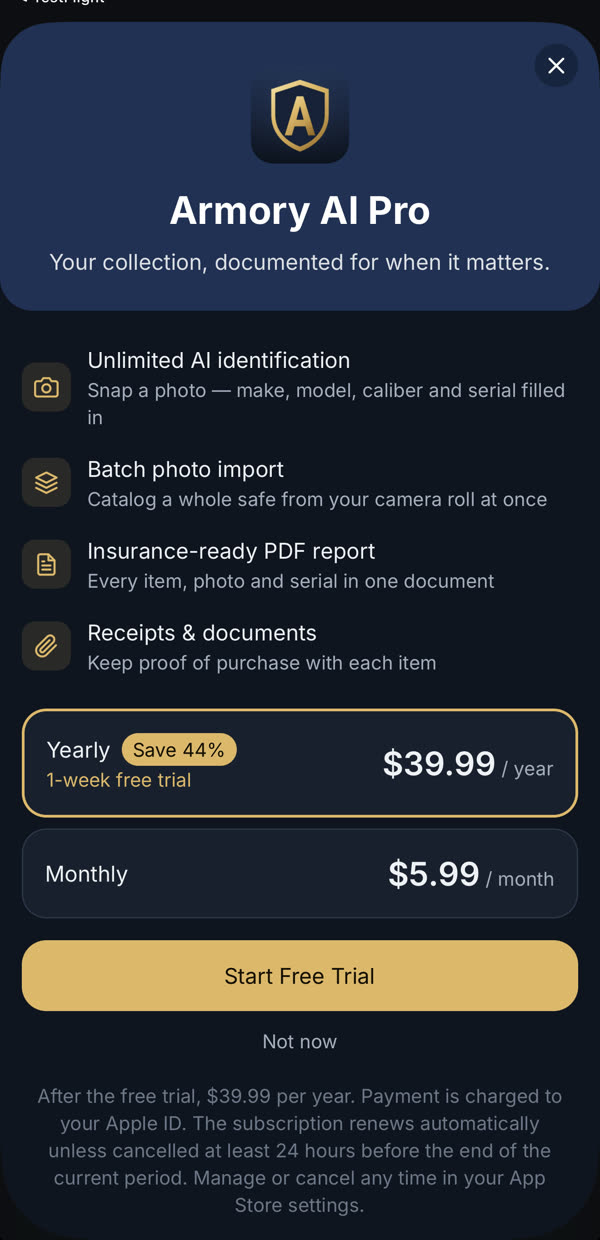
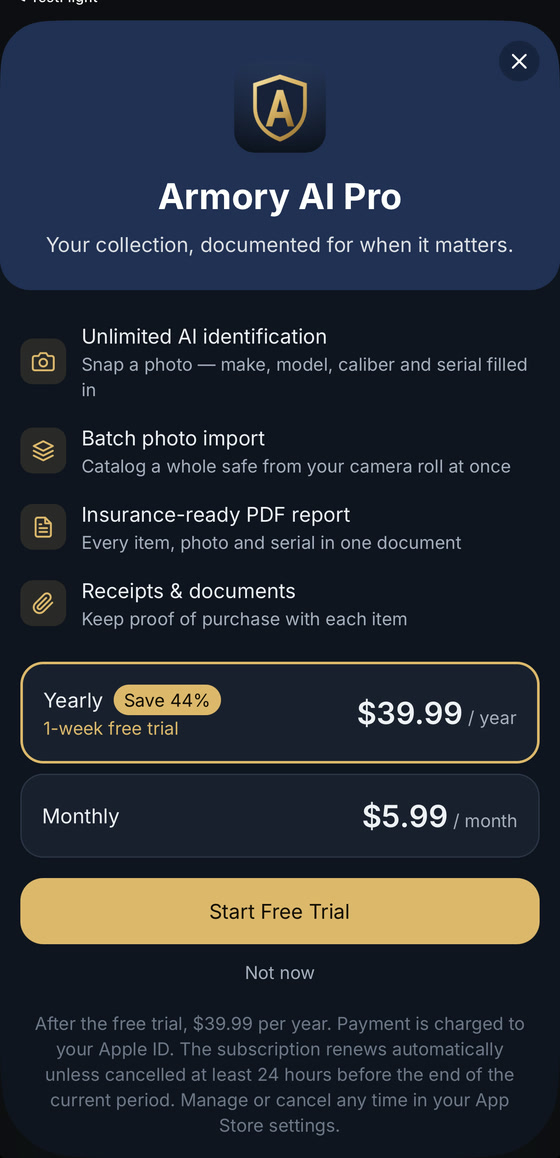
feat(site): Built in the USA, American Code LLC, sharper demo images
Adds a US flag and 'Built in the USA' to the hero, a trust strip (built
by American Code LLC, never sold, not used for AI training, Face ID app
lock) and links american-code.com in the footer, pricing and checkout.
Demo animations and step screens are re-rendered at 2x for Retina.

Claude-Session: https://claude.ai/code/session_01RkHaPM7E1otJpQmPPEVAR2

diff --git a/index.html b/index.html
@@ -34,7 +34,7 @@
     <section class="hero">
       <div class="wrap">
         <div>
-          <p class="eyebrow">For collectors, shooters and hunters</p>
+          <p class="eyebrow"><svg class="flag" viewBox="0 0 38 20" width="24" height="13" aria-hidden="true"><rect width="38" height="20" fill="#fff"/><rect y="0.00" width="38" height="1.54" fill="#B22234"/><rect y="3.08" width="38" height="1.54" fill="#B22234"/><rect y="6.16" width="38" height="1.54" fill="#B22234"/><rect y="9.24" width="38" height="1.54" fill="#B22234"/><rect y="12.32" width="38" height="1.54" fill="#B22234"/><rect y="15.40" width="38" height="1.54" fill="#B22234"/><rect y="18.48" width="38" height="1.54" fill="#B22234"/><rect width="15.2" height="10.77" fill="#3C3B6E"/><circle cx="1.6" cy="1.6" r="0.55" fill="#fff"/><circle cx="4.5" cy="1.6" r="0.55" fill="#fff"/><circle cx="7.4" cy="1.6" r="0.55" fill="#fff"/><circle cx="10.3" cy="1.6" r="0.55" fill="#fff"/><circle cx="13.2" cy="1.6" r="0.55" fill="#fff"/><circle cx="1.6" cy="4.2" r="0.55" fill="#fff"/><circle cx="4.5" cy="4.2" r="0.55" fill="#fff"/><circle cx="7.4" cy="4.2" r="0.55" fill="#fff"/><circle cx="10.3" cy="4.2" r="0.55" fill="#fff"/><circle cx="13.2" cy="4.2" r="0.55" fill="#fff"/><circle cx="1.6" cy="6.8" r="0.55" fill="#fff"/><circle cx="4.5" cy="6.8" r="0.55" fill="#fff"/><circle cx="7.4" cy="6.8" r="0.55" fill="#fff"/><circle cx="10.3" cy="6.8" r="0.55" fill="#fff"/><circle cx="13.2" cy="6.8" r="0.55" fill="#fff"/><circle cx="1.6" cy="9.4" r="0.55" fill="#fff"/><circle cx="4.5" cy="9.4" r="0.55" fill="#fff"/><circle cx="7.4" cy="9.4" r="0.55" fill="#fff"/><circle cx="10.3" cy="9.4" r="0.55" fill="#fff"/><circle cx="13.2" cy="9.4" r="0.55" fill="#fff"/></svg> Built in the USA for collectors, shooters and hunters</p>
           <h1>Your collection, documented.</h1>
           <p class="lede">Snap a photo and Armory AI fills in the make, model and caliber. Firearms, ammo and gear, organized in minutes instead of a weekend.</p>
           <div class="cta">
@@ -43,10 +43,20 @@
           </div>
           <p class="hero-note">iPhone app coming soon to the App Store. Subscribe here and Pro is waiting when you sign in.</p>
         </div>
-        <div class="phone"><img src="/assets/demo-identify.webp" width="400" height="830" alt="Armory AI scanning a photo of a pistol and identifying it as a Glock 45 Gen 5 MOS, 9mm"></div>
+        <div class="phone"><img src="/assets/demo-identify.webp" width="680" height="1410" alt="Armory AI scanning a photo of a pistol and identifying it as a Glock 45 Gen 5 MOS, 9mm"></div>
       </div>
     </section>
 
+
+
+    <section class="trust" aria-label="Why Armory AI">
+      <div class="wrap">
+        <span><svg class="flag" viewBox="0 0 38 20" width="24" height="13" aria-hidden="true"><rect width="38" height="20" fill="#fff"/><rect y="0.00" width="38" height="1.54" fill="#B22234"/><rect y="3.08" width="38" height="1.54" fill="#B22234"/><rect y="6.16" width="38" height="1.54" fill="#B22234"/><rect y="9.24" width="38" height="1.54" fill="#B22234"/><rect y="12.32" width="38" height="1.54" fill="#B22234"/><rect y="15.40" width="38" height="1.54" fill="#B22234"/><rect y="18.48" width="38" height="1.54" fill="#B22234"/><rect width="15.2" height="10.77" fill="#3C3B6E"/><circle cx="1.6" cy="1.6" r="0.55" fill="#fff"/><circle cx="4.5" cy="1.6" r="0.55" fill="#fff"/><circle cx="7.4" cy="1.6" r="0.55" fill="#fff"/><circle cx="10.3" cy="1.6" r="0.55" fill="#fff"/><circle cx="13.2" cy="1.6" r="0.55" fill="#fff"/><circle cx="1.6" cy="4.2" r="0.55" fill="#fff"/><circle cx="4.5" cy="4.2" r="0.55" fill="#fff"/><circle cx="7.4" cy="4.2" r="0.55" fill="#fff"/><circle cx="10.3" cy="4.2" r="0.55" fill="#fff"/><circle cx="13.2" cy="4.2" r="0.55" fill="#fff"/><circle cx="1.6" cy="6.8" r="0.55" fill="#fff"/><circle cx="4.5" cy="6.8" r="0.55" fill="#fff"/><circle cx="7.4" cy="6.8" r="0.55" fill="#fff"/><circle cx="10.3" cy="6.8" r="0.55" fill="#fff"/><circle cx="13.2" cy="6.8" r="0.55" fill="#fff"/><circle cx="1.6" cy="9.4" r="0.55" fill="#fff"/><circle cx="4.5" cy="9.4" r="0.55" fill="#fff"/><circle cx="7.4" cy="9.4" r="0.55" fill="#fff"/><circle cx="10.3" cy="9.4" r="0.55" fill="#fff"/><circle cx="13.2" cy="9.4" r="0.55" fill="#fff"/></svg> Built in the USA by <a href="https://american-code.com" rel="noopener">American Code LLC</a></span>
+        <span>Your data is never sold</span>
+        <span>Photos never used to train AI</span>
+        <span>Face ID app lock</span>
+      </div>
+    </section>
 
     <section class="section" id="how">
       <div class="wrap">
@@ -54,19 +64,19 @@
         <p class="sub">No more typing serial numbers into a spreadsheet. Point your camera and let Armory AI do the work.</p>
         <ol class="steps">
           <li class="step-card">
-            <img src="/assets/step-scan.webp" alt="The camera scanning a pistol" width="360" height="746" loading="lazy">
+            <img src="/assets/step-scan.webp" alt="The camera scanning a pistol" width="520" height="1078" loading="lazy">
             <span class="step-n">1</span>
             <h3>Snap a photo</h3>
             <p>Use your camera or pick photos you already have.</p>
           </li>
           <li class="step-card">
-            <img src="/assets/step-result.jpg" alt="Glock 45 Gen 5 MOS identified: semi-auto pistol, 9mm, condition excellent" width="600" height="1244" loading="lazy">
+            <img src="/assets/step-result.jpg" alt="Glock 45 Gen 5 MOS identified: semi-auto pistol, 9mm, condition excellent" width="560" height="1162" loading="lazy">
             <span class="step-n">2</span>
             <h3>AI fills it in</h3>
             <p>Make, model, type and caliber in seconds. Review, adjust, save.</p>
           </li>
           <li class="step-card">
-            <img src="/assets/step-pro.jpg" alt="The Armory AI Pro plans" width="600" height="1244" loading="lazy">
+            <img src="/assets/step-pro.jpg" alt="The Armory AI Pro plans" width="560" height="1162" loading="lazy">
             <span class="step-n">3</span>
             <h3>Go Pro for the whole safe</h3>
             <p>Unlimited scans, batch import and an insurance-ready PDF report.</p>
@@ -136,7 +146,7 @@
             <a class="button" href="/pro/">Get Pro</a>
           </article>
         </div>
-        <p class="tier-fine">Already have the app? Pro bought here or in the app is the same subscription on your account.</p>
+        <p class="tier-fine">Already have the app? Pro bought here or in the app is the same subscription on your account. Payments are processed securely by Stripe. Armory AI is a product of <a href="https://american-code.com" rel="noopener">American Code LLC</a>.</p>
       </div>
     </section>
 
@@ -156,7 +166,7 @@
 
   <footer class="site-footer">
     <div class="wrap">
-      <span>© 2026 American Code. Armory AI is a product of American Code.</span>
+      <span>© 2026 American Code LLC. Armory AI is built by <a href="https://american-code.com" rel="noopener">American Code</a>, a US software company. Proudly built in America.</span>
       <nav aria-label="Footer">
         <a href="/privacy/">Privacy</a>
         <a href="/terms/">Terms</a>

diff --git a/styles.css b/styles.css
@@ -178,6 +178,15 @@ img { max-width: 100%; display: block; }
 .hero-note { color: #a3aec0; font-size: 15px; margin: 16px 0 0; max-width: 40ch; }
 .nav-cta { background: var(--brass); color: var(--on-brass) !important; font-weight: 700; padding: 4px 14px; border-radius: 999px; }
 
+/* USA touches */
+.flag { display: inline-block; vertical-align: -1px; margin-right: 8px; border-radius: 2px; box-shadow: 0 0 0 1px rgba(255, 255, 255, 0.15); }
+.trust { border-bottom: 1px solid var(--border); background: var(--surface); }
+.trust .wrap { display: flex; flex-wrap: wrap; justify-content: space-between; gap: 10px 28px; padding-top: 18px; padding-bottom: 18px; font-size: 15px; font-weight: 600; color: var(--text-2); }
+.trust span { display: inline-flex; align-items: center; }
+.trust span:not(:first-child)::before { content: ""; width: 7px; height: 7px; margin-right: 10px; border-radius: 2px; background: var(--brass); transform: rotate(45deg); }
+.trust a { color: var(--text); text-decoration: none; margin-left: 4px; }
+.trust a:hover { text-decoration: underline; }
+
 /* Footer */
 .site-footer { border-top: 1px solid var(--border); color: var(--text-3); font-size: 14px; }
 .site-footer .wrap { display: flex; flex-wrap: wrap; gap: 12px 24px; justify-content: space-between; padding-top: 28px; padding-bottom: 28px; }
@@ -187,6 +196,7 @@ img { max-width: 100%; display: block; }
 @media (max-width: 760px) {
   .hero .wrap { grid-template-columns: 1fr; padding-top: 48px; padding-bottom: 56px; gap: 40px; }
   .grid, .checks, .tiers, .steps { grid-template-columns: 1fr; }
+  .trust .wrap { justify-content: flex-start; }
   .section { padding: 56px 0; }
   .nav { gap: 14px; font-size: 14px; }
 }

diff --git a/pro/index.html b/pro/index.html
@@ -99,7 +99,7 @@
 
           <p id="error" class="error" role="alert" hidden></p>
           <button id="submit" class="button" type="submit">Continue to secure checkout</button>
-          <p class="fine">Payment is processed securely by Stripe through RevenueCat. Subscriptions renew automatically until cancelled; cancel any time from the link in your receipt email. Bought in the app instead? It's the same Pro, and you don't need both.</p>
+          <p class="fine">Sold by <a href="https://american-code.com" rel="noopener">American Code LLC</a>. Payment is processed securely by Stripe through RevenueCat. Subscriptions renew automatically until cancelled; cancel any time from the link in your receipt email. Bought in the app instead? It's the same Pro, and you don't need both.</p>
           <p id="not-ready" class="notice" hidden>Web checkout opens soon. Questions? <a href="mailto:support@armoryai.app">support@armoryai.app</a></p>
         </form>
       </div>
@@ -108,7 +108,7 @@
 
   <footer class="site-footer">
     <div class="wrap">
-      <span>© 2026 American Code. Armory AI is a product of American Code.</span>
+      <span>© 2026 American Code LLC. Armory AI is built by <a href="https://american-code.com" rel="noopener">American Code</a>, a US software company. Proudly built in America.</span>
       <nav aria-label="Footer">
         <a href="/privacy/">Privacy</a>
         <a href="/terms/">Terms</a>

diff --git a/privacy/index.html b/privacy/index.html
@@ -57,7 +57,7 @@
   </main>
   <footer class="site-footer">
     <div class="wrap">
-      <span>© 2026 American Code. Armory AI is a product of American Code.</span>
+      <span>© 2026 American Code LLC. Armory AI is built by <a href="https://american-code.com" rel="noopener">American Code</a>, a US software company. Proudly built in America.</span>
       <nav aria-label="Footer">
         <a href="/privacy/">Privacy</a>
         <a href="/terms/">Terms</a>

diff --git a/support/index.html b/support/index.html
@@ -57,7 +57,7 @@
   </main>
   <footer class="site-footer">
     <div class="wrap">
-      <span>© 2026 American Code. Armory AI is a product of American Code.</span>
+      <span>© 2026 American Code LLC. Armory AI is built by <a href="https://american-code.com" rel="noopener">American Code</a>, a US software company. Proudly built in America.</span>
       <nav aria-label="Footer">
         <a href="/privacy/">Privacy</a>
         <a href="/terms/">Terms</a>

diff --git a/terms/index.html b/terms/index.html
@@ -65,7 +65,7 @@
   </main>
   <footer class="site-footer">
     <div class="wrap">
-      <span>© 2026 American Code. Armory AI is a product of American Code.</span>
+      <span>© 2026 American Code LLC. Armory AI is built by <a href="https://american-code.com" rel="noopener">American Code</a>, a US software company. Proudly built in America.</span>
       <nav aria-label="Footer">
         <a href="/privacy/">Privacy</a>
         <a href="/terms/">Terms</a>
